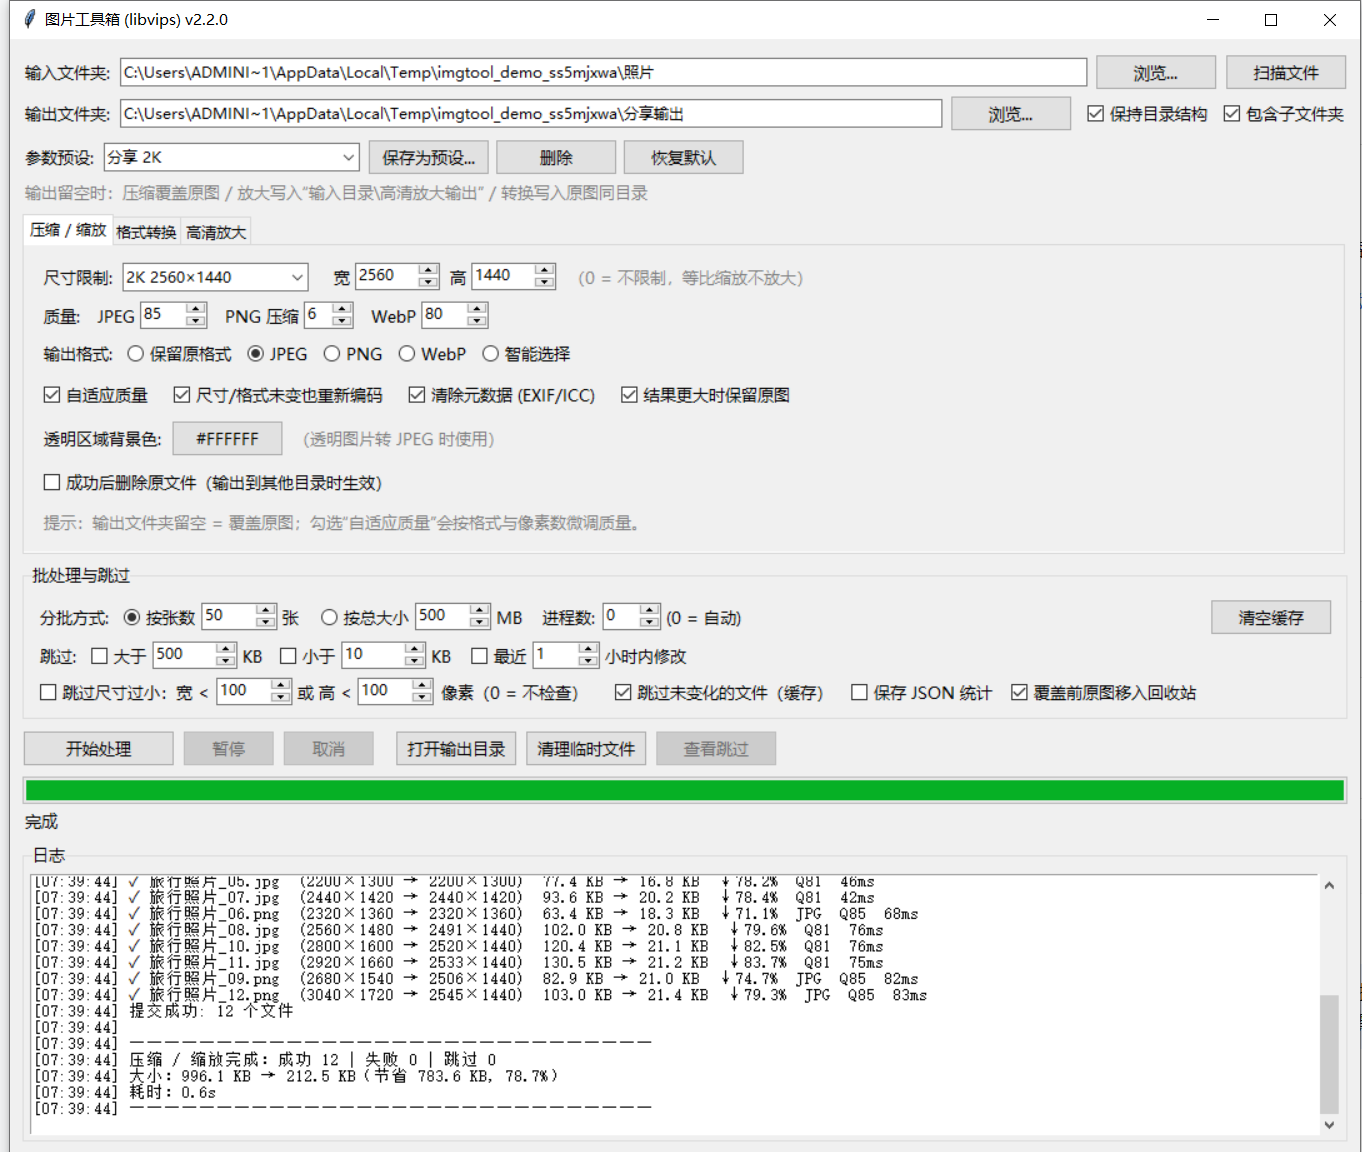
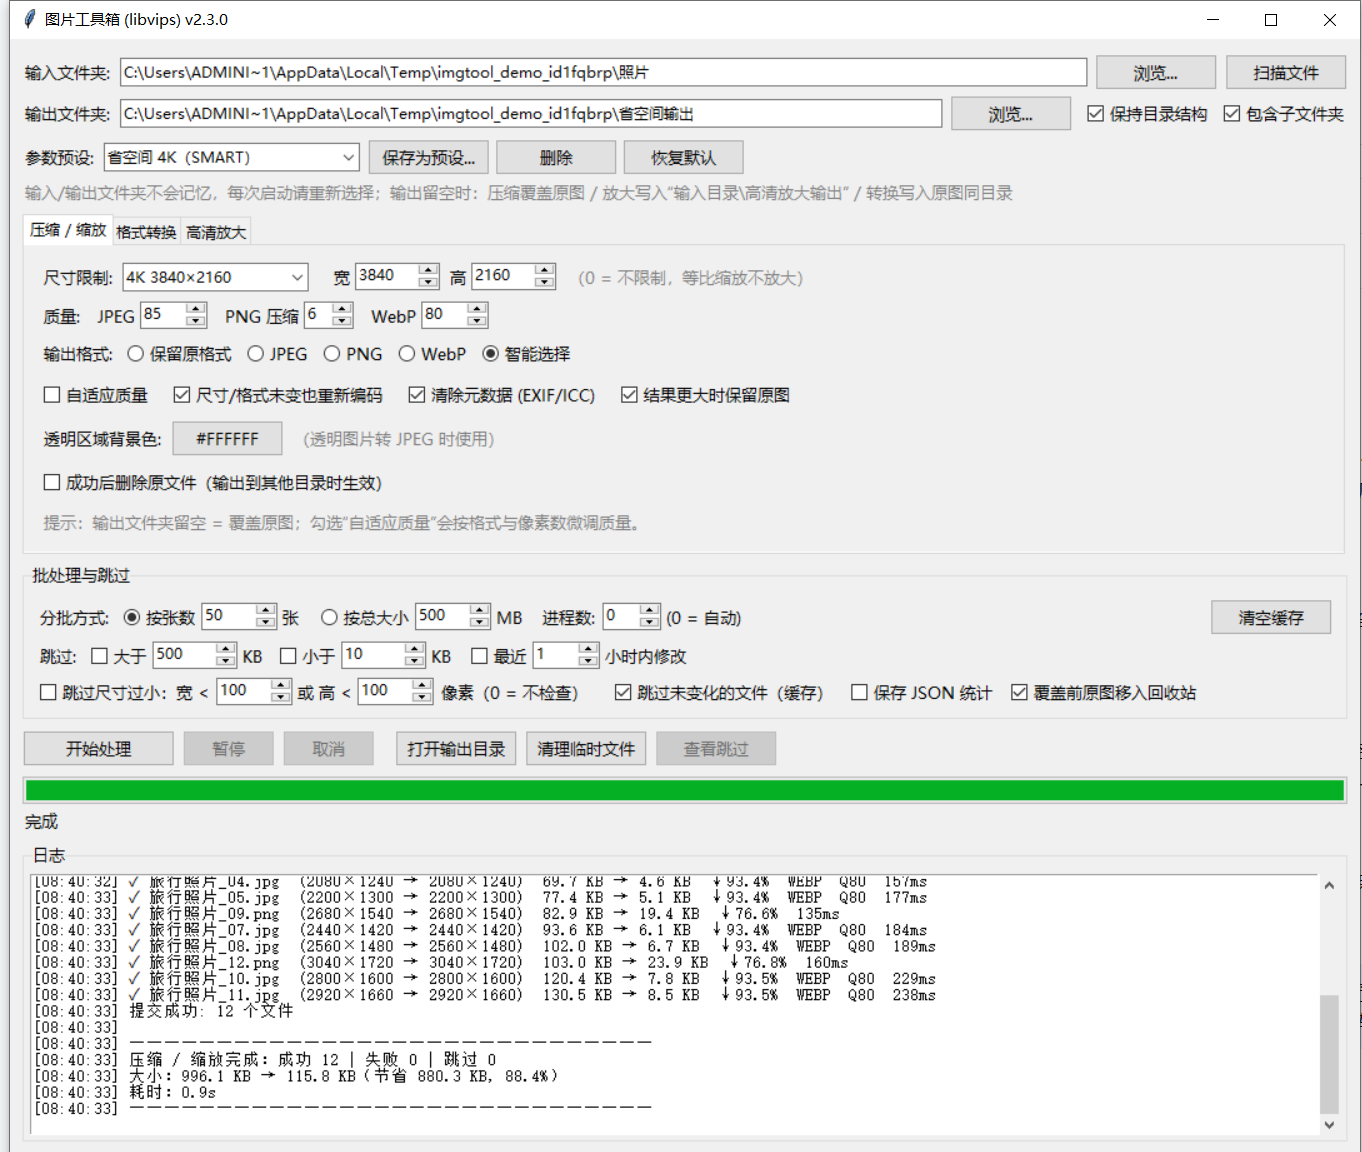
新增省空间 4K 预设，归档 4K 固定 JPEG，目录不再记忆

diff --git a/tests/smoke_test.py b/tests/smoke_test.py
@@ -58,7 +58,7 @@ def run_gui(work: str, failures: list) -> None:
     # 默认输出格式应为“智能选择”，并且内置预设已写入
     if app.compress_panel.format_var.get() != "smart":
         failures.append(f"默认输出格式不是 smart：{app.compress_panel.format_var.get()}")
-    for name in ("归档 4K", "分享 2K", "社交 1080p"):
+    for name in ("归档 4K", "分享 2K", "社交 1080p", "省空间 4K（SMART）"):
         if name not in app.prefs.preset_names:
             failures.append(f"缺少内置预设：{name}")
 
@@ -69,6 +69,20 @@ def run_gui(work: str, failures: list) -> None:
             app.compress_panel.format_var.get() != "jpeg" or \
             not app.compress_panel.adaptive_var.get():
         failures.append("应用“分享 2K”预设未生效")
+
+    app.preset_var.set("归档 4K")
+    app._apply_selected_preset()
+    if app.compress_panel.format_var.get() != "jpeg":
+        failures.append("应用“归档 4K”预设后不是 JPEG")
+
+    # 恢复默认参数后，目录仍需保留
+    app.input_dir_var.set(r"D:\保留输入")
+    app.output_dir_var.set(r"D:\保留输出")
+    app._reset_defaults_ui()
+    if app.input_dir_var.get() != r"D:\保留输入" or app.output_dir_var.get() != r"D:\保留输出":
+        failures.append("恢复默认参数时不应清空目录")
+
+    app.input_dir_var.set(src)
 
     def pump(label: str, timeout: float = 120.0) -> None:
         deadline = time.time() + timeout
@@ -127,7 +141,7 @@ def run_gui(work: str, failures: list) -> None:
     app.upscale_panel.sharpen_var.set(0.8)
     start_and_check("放大", out_upscale)
 
-    root.destroy()
+    app._on_close()
 
     # 校验输出尺寸
     sample = os.path.join(out_compress, "big.jpg")
@@ -184,6 +198,14 @@ def test_preferences(work: str) -> list:
     if share.get("width") != 2560 or share.get("format") != "jpeg":
         failures.append("内置预设：分享 2K 内容不正确")
 
+    archive = (seeded.get_preset("归档 4K") or {}).get("compress", {})
+    if archive.get("format") != "jpeg":
+        failures.append("内置预设：归档 4K 应为 JPEG")
+
+    space = (seeded.get_preset("省空间 4K（SMART）") or {}).get("compress", {})
+    if space.get("format") != "smart":
+        failures.append("内置预设：省空间 4K 应为 SMART")
+
     seeded.delete_preset("归档 4K")
     seeded.seed_presets(BUILTIN_PRESETS)
     if "归档 4K" in Preferences(path=seed_path).preset_names:
@@ -193,10 +215,44 @@ def test_preferences(work: str) -> list:
     return failures
 
 
+def test_paths_not_restored(work: str) -> list:
+    """输入/输出文件夹不应从上次参数中恢复。"""
+    import tkinter as tk
+
+    from core import Preferences
+    from gui.app import ImageToolApp
+
+    failures = []
+    path = os.path.join(work, "prefs_paths.json")
+    prefs = Preferences(path=path)
+    prefs.set_last({
+        "input_dir": r"D:\旧输入目录",
+        "output_dir": r"D:\旧输出目录",
+        "compress": {"format": "smart"},
+    })
+
+    root = tk.Tk()
+    root.withdraw()
+    app = ImageToolApp(root, preferences_path=path)
+    root.update()
+
+    if app.input_dir_var.get() != "":
+        failures.append("启动时不应恢复输入目录")
+    if app.output_dir_var.get() != "":
+        failures.append("启动时不应恢复输出目录")
+    if app.compress_panel.format_var.get() != "smart":
+        failures.append("除路径外的参数应正常恢复")
+
+    app._on_close()
+    print("[目录不记忆] 通过" if not failures else "[目录不记忆] 失败")
+    return failures
+
+
 def main() -> None:
     work = tempfile.mkdtemp(prefix="imgtool_test_")
     failures = test_preferences(work)
     run_gui(work, failures)
+    failures += test_paths_not_restored(work)
     shutil.rmtree(work, ignore_errors=True)
     if failures:
         print("\n失败项:")

diff --git a/gui/app.py b/gui/app.py
@@ -110,6 +110,7 @@ class ImageToolApp:
         self._overwrite_confirmed = False
 
         self.queue: Queue = Queue()
+        self._poll_after_id = None
         self.cache = ProcessedCache()
         self.prefs = Preferences(path=preferences_path) if preferences_path else Preferences()
         try:
@@ -140,7 +141,7 @@ class ImageToolApp:
                 self._restored_last = False
         self._refresh_preset_box()
 
-        self._poll_queue()
+        self._poll_after_id = self.root.after(100, self._poll_queue)
 
         self._log(f"{APP_TITLE} 已就绪")
         if self._restored_last:
@@ -233,7 +234,8 @@ class ImageToolApp:
 
         ttk.Label(
             frame,
-            text="输出留空时：压缩覆盖原图 / 放大写入“输入目录\\高清放大输出” / 转换写入原图同目录",
+            text="输入/输出文件夹不会记忆，每次启动请重新选择；"
+                 "输出留空时：压缩覆盖原图 / 放大写入“输入目录\\高清放大输出” / 转换写入原图同目录",
             foreground="gray",
         ).pack(anchor=tk.W, pady=(2, 0))
 
@@ -488,11 +490,12 @@ class ImageToolApp:
             return default
 
     def _collect_state(self) -> dict:
-        """把当前全部界面参数收集为可序列化的字典。"""
+        """把当前全部界面参数收集为可序列化的字典。
+
+        输入/输出文件夹不写入参数记忆；每次启动由用户重新选择。
+        """
         return {
             "mode": self._current_mode().value,
-            "input_dir": self.input_dir_var.get(),
-            "output_dir": self.output_dir_var.get(),
             "recursive": bool(self.recursive_var.get()),
             "preserve": bool(self.preserve_var.get()),
             "batch_mode": self.batch_mode_var.get(),
@@ -518,15 +521,12 @@ class ImageToolApp:
         }
 
     def _apply_state(self, state: dict) -> None:
-        """应用参数字典（对缺失/非法值做保护）。"""
+        """应用参数字典（对缺失/非法值做保护）。
+
+        旧版本保存过的 input_dir/output_dir 会被忽略，避免自动带入上次路径。
+        """
         if not isinstance(state, dict):
             return
-
-        for key, variable in (("input_dir", self.input_dir_var),
-                              ("output_dir", self.output_dir_var)):
-            value = state.get(key)
-            if isinstance(value, str):
-                variable.set(value)
 
         self.recursive_var.set(_safe_bool(state, "recursive", True))
         self.preserve_var.set(_safe_bool(state, "preserve", True))
@@ -639,8 +639,6 @@ class ImageToolApp:
             key: (dict(value) if isinstance(value, dict) else value)
             for key, value in self._default_state.items()
         }
-        state["input_dir"] = self.input_dir_var.get()
-        state["output_dir"] = self.output_dir_var.get()
         self._apply_state(state)
         self.preset_var.set("")
         self._log("已恢复默认参数")
@@ -1031,7 +1029,7 @@ class ImageToolApp:
             elif kind == "done":
                 self._on_done(payload[0])
 
-        self.root.after(100, self._poll_queue)
+        self._poll_after_id = self.root.after(100, self._poll_queue)
 
     def _handle_result(self, result: ImageResult) -> None:
         if result.skipped:
@@ -1251,5 +1249,11 @@ class ImageToolApp:
                 return
             self.cancel_event.set()
             self.running_event.set()
+        if self._poll_after_id is not None:
+            try:
+                self.root.after_cancel(self._poll_after_id)
+            except Exception:
+                pass
+            self._poll_after_id = None
         self._save_preferences()
         self.root.destroy()

diff --git a/gui/presets.py b/gui/presets.py
@@ -1,10 +1,11 @@
 # gui/presets.py
 """内置参数预设（首次启动自动写入，之后可自行修改/删除）。
 
-三套预设对应真实照片验收报告中的推荐：
-  * 归档 4K    —— 保留原格式、固定 Q85，适合长期保存；
-  * 分享 2K    —— 转 JPEG、自适应质量，兼容性最好；
-  * 社交 1080p —— 转 JPEG、自适应质量，体积最小。
+预设对应真实照片验收报告中的推荐：
+  * 归档 4K         —— JPEG、固定 Q85，兼容性最好，适合长期保存；
+  * 分享 2K         —— JPEG、自适应质量，清晰度与体积平衡；
+  * 社交 1080p      —— JPEG、自适应质量，体积最小；
+  * 省空间 4K（SMART）—— 智能选择（JPG→WebP/HEIC→JPEG），体积最小，适合网盘/网页。
 
 预设只覆盖参数，不改动输入/输出文件夹。
 """
@@ -75,7 +76,7 @@ BUILTIN_PRESETS = {
     "归档 4K": _full_state(_compress_state(
         width=3840,
         height=2160,
-        format=OutputFormat.KEEP.value,
+        format=OutputFormat.JPEG.value,
         adaptive=False,
         keep_larger=True,
     )),
@@ -91,6 +92,13 @@ BUILTIN_PRESETS = {
         height=1080,
         format=OutputFormat.JPEG.value,
         adaptive=True,
+        keep_larger=True,
+    )),
+    "省空间 4K（SMART）": _full_state(_compress_state(
+        width=3840,
+        height=2160,
+        format=OutputFormat.SMART.value,
+        adaptive=False,
         keep_larger=True,
     )),
 }

diff --git a/core/constants.py b/core/constants.py
@@ -7,7 +7,7 @@ from .enums import OutputFormat
 
 # ---------------- 应用信息 ----------------
 APP_NAME = "图片工具箱 (libvips)"
-APP_VERSION = "2.2.0"
+APP_VERSION = "2.3.0"
 APP_TITLE = f"{APP_NAME} v{APP_VERSION}"
 
 # ---------------- 图片格式 ----------------

diff --git a/合并说明.md b/合并说明.md
@@ -92,7 +92,7 @@ DS_libvips/
 | 打开输出目录 | DS放大 | 主窗口按钮 | 运行结束后自动启用 |
 | HEIC/HEIF | 旧版均不支持 | `processor.load_image` / `_heic_to_temp` | 优先 pillow-heif（完整解码网格主图），其次 libvips，最后 FFmpeg 并校验是否只解到缩略图/分块 |
 | 输出名冲突处理 | 旧版无（deepseek 会静默覆盖） | `app._execute_task` 预判 | 例如 `a.png` 与 `a.webp` 都转 `a.jpg` 时自动改名 |
-| 参数记忆 / 命名预设 | 新增（旧版无） | `core/preferences.py` + `gui/presets.py` | 内置“归档 4K / 分享 2K / 社交 1080p”，首次启动自动写入；启动恢复上次参数；最多 20 套；保存于 `~/.image_toolkit_settings.json` |
+| 参数记忆 / 命名预设 | 新增（旧版无） | `core/preferences.py` + `gui/presets.py` | 内置“归档 4K / 分享 2K / 社交 1080p / 省空间 4K（SMART）”；启动恢复上次参数（**不含输入/输出目录**）；最多 20 套；保存于 `~/.image_toolkit_settings.json` |
 | 覆盖前备份原图 | 新增（旧版无） | `core/backup.py` + 高级区勾选 | 默认开启；本地盘移入回收站（可还原），网络盘复制到 `.originals`；备份失败则跳过该文件 |
 
 ---
@@ -159,9 +159,12 @@ DS_libvips/
   修改参数或删除输出后会自动重新处理；可用“清空缓存”按钮重置。
 - **查看跳过**：运行结束后可查看本次所有跳过原因并复制。
 - **参数预设**：顶部“参数预设”可保存多套配置（最多 20 套），下拉选择后立即应用；
-  已内置“归档 4K / 分享 2K / 社交 1080p”三套（首次启动自动写入，删除后不会再自动加回）。
-  “恢复默认”只重置参数、保留输入/输出目录。上次使用的参数会自动记忆到
+  已内置四套：**归档 4K（JPEG）、分享 2K（JPEG+自适应）、社交 1080p（JPEG+自适应）、
+  省空间 4K（SMART，JPG→WebP）**（首次启动自动写入，删除后不会再自动加回）。
+  “恢复默认”只重置参数、保留当前输入/输出目录。除输入/输出目录外的上次参数会自动记忆到
   `%USERPROFILE%\.image_toolkit_settings.json`。
+- **输入/输出目录不记忆**：每次启动都需要重新选择，避免误用上次路径。
+  预设只改参数，不改目录。
 - **覆盖前备份**：默认勾选。本地磁盘上会把原图移入回收站（可在资源管理器还原）；
   网络盘、可移动盘或回收站不可用时，改为复制到图片旁边的 `.originals` 目录。
   如果备份失败，该文件会被跳过而不是直接覆盖。
@@ -179,7 +182,7 @@ DS_libvips/
 - 核心：压缩（KEEP/自适应质量）、智能格式、PNG→JPG（透明背景）、放大（尺寸校验）、
   原地覆盖 + 删除源文件、缓存命中/失效、输出名冲突改名。
 - GUI：三种模式各跑一轮，检查输出文件与尺寸，验证按钮状态与日志。
-- 参数记忆/预设：写入后重新加载、预设应用/删除。
+- 参数记忆/预设：写入后重新加载、预设应用/删除、输入/输出目录不被记忆。
 - 备份：回收站调用成功、提交前触发备份、备份失败时跳过。
 - 边界用例（已在开发时验证）：16-bit PNG→JPEG、EXIF orientation 自动旋转、
   TIFF/GIF/BMP 读取与保存回退、压缩后变大保护。

diff --git a/docs/真实照片验收报告.md b/docs/真实照片验收报告.md
@@ -5,7 +5,7 @@
 - 环境：Windows / Python 3.12 / pyvips 3.1.1 / libvips 8.18.7 /
   pillow-heif 1.8.1 / Pillow 13
 - 硬件：Intel Core i7-8700（6 核 12 线程）/ 16 GB 内存
-- 程序版本：图片工具箱 v2.2.0
+- 程序版本：图片工具箱 v2.3.0（处理核心与 v2.2.0 相同）
 
 > 说明：为保护隐私，本报告用“图 1~12”代替文件名，可通过分辨率与体积对应；
 > 原始文件未做任何修改，所有输出都写在临时目录，测试后已删除。
@@ -74,15 +74,19 @@
 > 默认 SMART 的体积最小，但 JPG 会变成 WebP（兼容性/编码速度不如 JPEG）。
 > 需要 JPEG 时请用“分享 2K”或“社交 1080p”预设。
 
-## 四、三套内置预设实测（12 张）
+## 四、内置预设实测（12 张）
 
 | 预设 | 参数 | 输出 | 降幅 | 耗时 | 输出格式 |
 |---|---|---|---|---|---|
-| 归档 4K | 3840×2160 / 保留原格式 / Q85 | 9.81 MB | 82.0% | 8.80 s | 12 张 JPEG |
+| 归档 4K | 3840×2160 / JPEG / Q85 | 9.81 MB | 82.0% | 8.80 s | 12 张 JPEG |
 | 分享 2K | 2560×1440 / JPEG / Q85 / 自适应 | 4.64 MB | 91.5% | 7.26 s | 12 张 JPEG |
 | 社交 1080p | 1920×1080 / JPEG / Q85 / 自适应 | 3.03 MB | 94.5% | 7.45 s | 12 张 JPEG |
+| 省空间 4K（SMART）* | 3840×2160 / SMART / Q85 | 6.13 MB | 88.8% | 6.18 s | 9 WebP + 3 JPEG |
 
-三套预设的 `keep_larger=True`（结果更大时保留原图），可避免已压缩图片越压越大。
+\* 省空间 4K 与第三节的默认 SMART 参数基本一致（仅 `keep_larger` 不同），
+因此直接引用默认 SMART 的 12 张实测结果。
+
+以上预设均开启 `keep_larger=True`（结果更大时保留原图），可避免已压缩图片越压越大。
 预设只改参数，不改输入/输出目录。
 
 ## 五、JPEG 参数对比（仅 9 张 JPEG，用于隔离参数影响）

diff --git a/docs/压力测试报告.md b/docs/压力测试报告.md
@@ -5,7 +5,7 @@
 - 输出目录：D 盘临时目录（测试后已删除）
 - 环境：Windows / Python 3.12 / pyvips 3.1.1 / libvips 8.18.7 / pillow-heif 1.8.1
 - 硬件：Intel Core i7-8700（6 核 12 线程）/ 16 GB 内存
-- 程序版本：图片工具箱 v2.2.0
+- 程序版本：图片工具箱 v2.3.0（处理核心与 v2.2.0 相同）
 
 ## 一、测试设置
 
